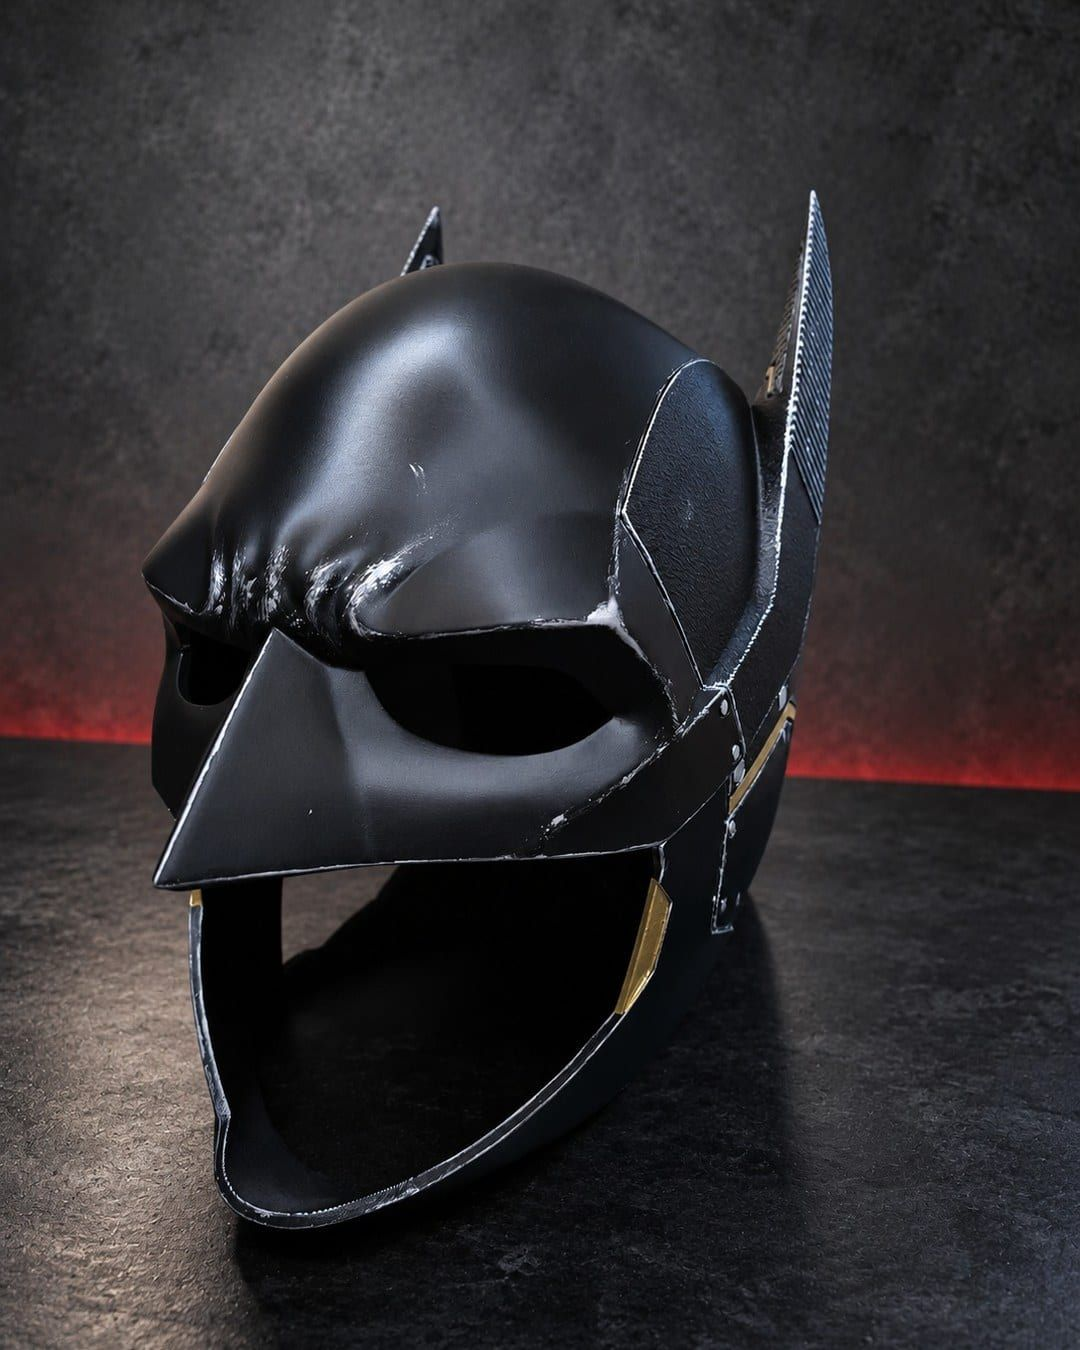
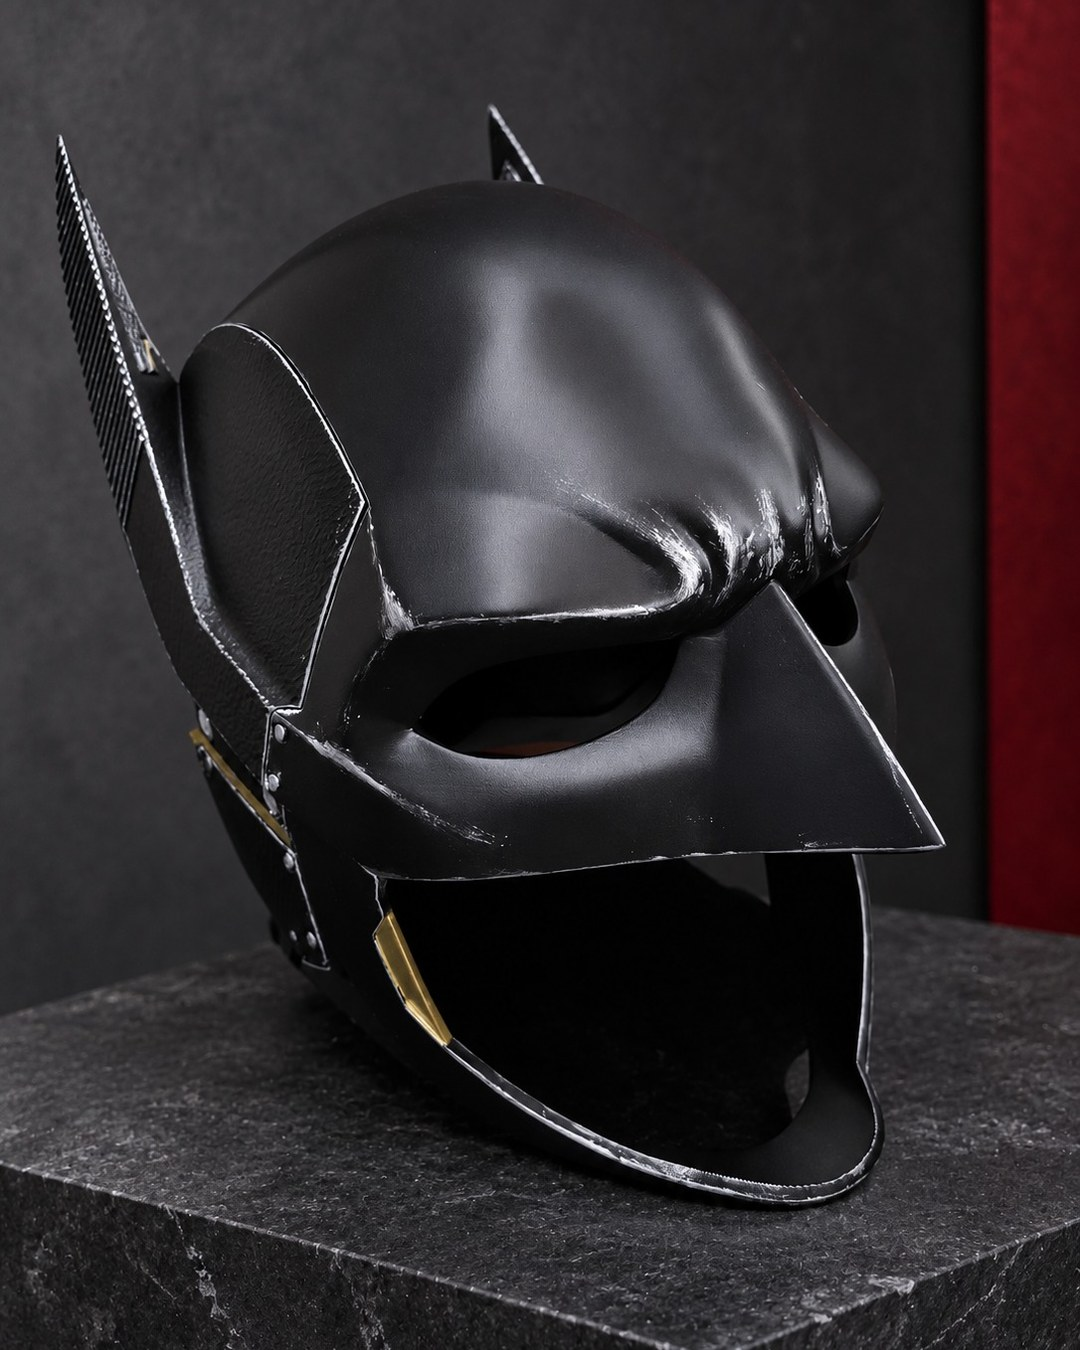
Casco de Batman: foto principal = acabado gris mate (pedido de Adrián)

diff --git a/producto/casco-de-batman/index.html b/producto/casco-de-batman/index.html
@@ -23,8 +23,8 @@
     <meta property="og:title" content="Casco de Batman 🎃 · Halloween | BoomArt">
     <meta property="og:description" content="🎃 Edición Halloween. Casco de Batman a tamaño real 1:1, especial para cosplay y disfraz. Fabricado en PLA+ con... Desde S/180. Impresa en 3D a pedido en Lima y Callao, con envíos a todo el Perú. Cómprala por WhatsApp o en la tienda BoomArt.">
     <meta property="og:url" content="https://boomart.pe/producto/casco-de-batman/">
-    <meta property="og:image" content="https://boomart.pe/assets/og/casco-de-batman.jpg?v=27611e51">
-    <meta property="og:image:secure_url" content="https://boomart.pe/assets/og/casco-de-batman.jpg?v=27611e51">
+    <meta property="og:image" content="https://boomart.pe/assets/og/casco-de-batman.jpg?v=25a1d1ab">
+    <meta property="og:image:secure_url" content="https://boomart.pe/assets/og/casco-de-batman.jpg?v=25a1d1ab">
     <meta property="og:image:type" content="image/jpeg">
     <meta property="og:image:width" content="960">
     <meta property="og:image:height" content="1200">
@@ -35,7 +35,7 @@
     <meta name="twitter:card" content="summary_large_image">
     <meta name="twitter:title" content="Casco de Batman 🎃 · Halloween | BoomArt">
     <meta name="twitter:description" content="🎃 Edición Halloween. Casco de Batman a tamaño real 1:1, especial para cosplay y disfraz. Fabricado en PLA+ con... Desde S/180. Impresa en 3D a pedido en Lima y Callao, con envíos a todo el Perú. Cómprala por WhatsApp o en la tienda BoomArt.">
-    <meta name="twitter:image" content="https://boomart.pe/assets/og/casco-de-batman.jpg?v=27611e51">
+    <meta name="twitter:image" content="https://boomart.pe/assets/og/casco-de-batman.jpg?v=25a1d1ab">
     <link rel="preconnect" href="https://fonts.googleapis.com">
     <link rel="preconnect" href="https://fonts.gstatic.com" crossorigin>
     <link href="https://fonts.googleapis.com/css2?family=Barlow+Condensed:wght@600;700;800;900&family=Inter:wght@400;500;600;700;800&display=swap" rel="stylesheet">
